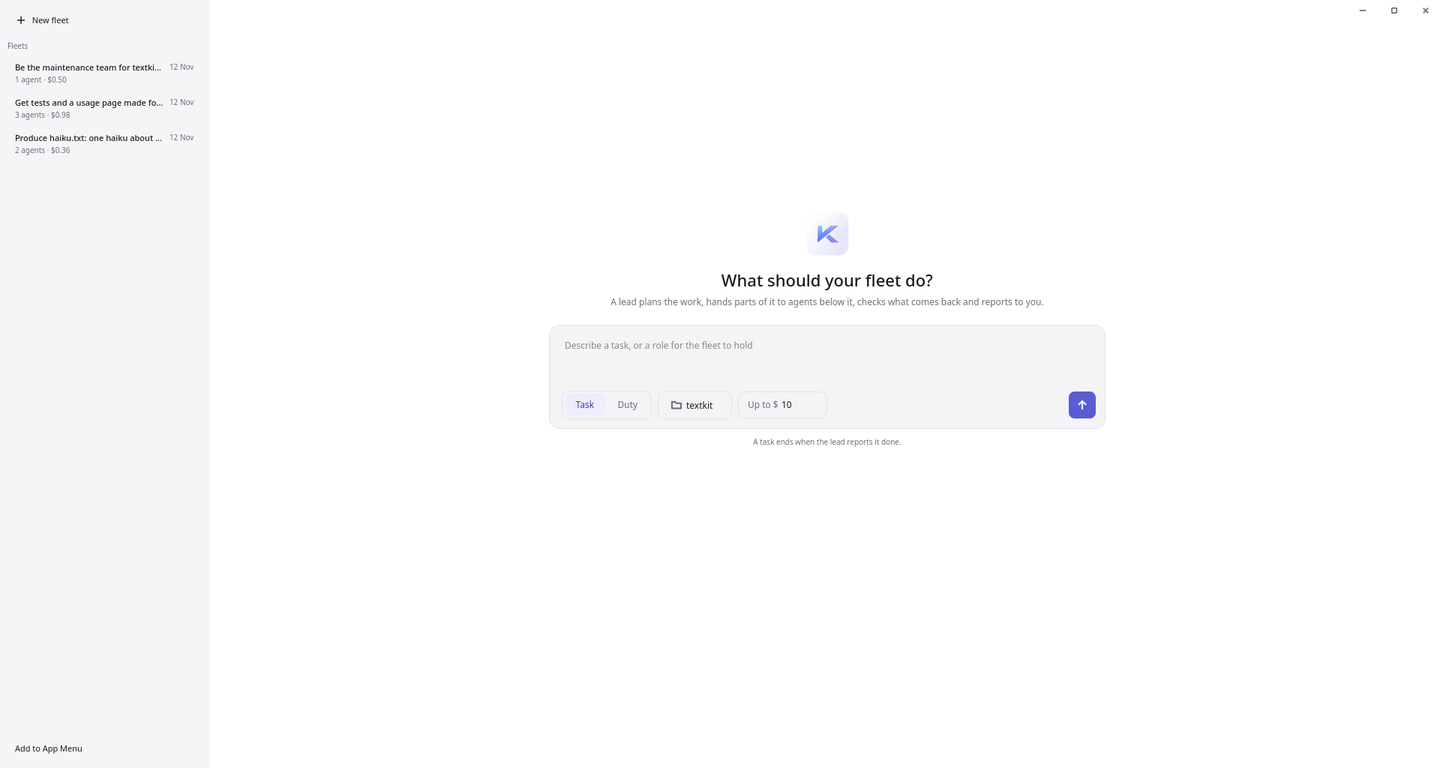
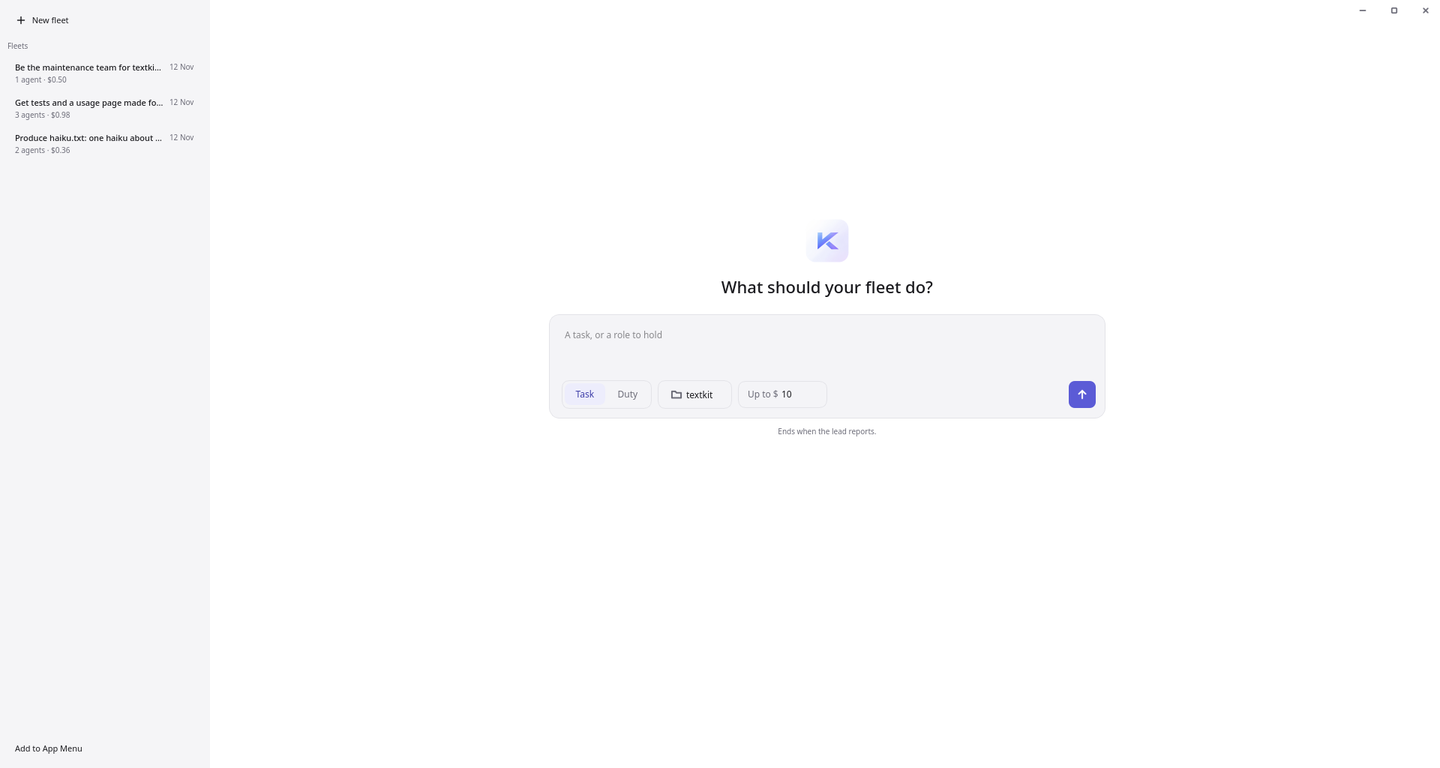
Cut the filler text from the start screen

diff --git a/src/kfm/desktop.py b/src/kfm/desktop.py
@@ -268,14 +268,9 @@ class StartForm(QWidget):
         heading = label("What should your fleet do?", wrap=False)
         heading.setAlignment(Qt.AlignmentFlag.AlignHCenter)
         heading.setStyleSheet("font-size: 22px; font-weight: 600;")
-        about = label("A lead plans the work, hands parts of it to agents below it, checks "
-                      "what comes back and reports to you.", tone="muted")
-        about.setAlignment(Qt.AlignmentFlag.AlignHCenter)
         outer.addWidget(logo)
         outer.addSpacing(14)
         outer.addWidget(heading)
-        outer.addSpacing(6)
-        outer.addWidget(about)
         outer.addSpacing(22)
 
         box = QFrame(objectName="composer")
@@ -283,7 +278,7 @@ class StartForm(QWidget):
         inside.setContentsMargins(16, 14, 12, 12)
         inside.setSpacing(12)
         self.task = TaskBox()
-        self.task.setPlaceholderText("Describe a task, or a role for the fleet to hold")
+        self.task.setPlaceholderText("A task, or a role to hold")
         self.task.submitted.connect(self.submitted)
         inside.addWidget(self.task)
         row = QHBoxLayout()
@@ -349,9 +344,8 @@ class StartForm(QWidget):
 
     def _describe(self) -> None:
         self.hint.setText(
-            "A duty never ends: the fleet finds its own work until you stop it."
-            if self.duty.isChecked() else
-            "A task ends when the lead reports it done.")
+            "Runs until you stop it." if self.duty.isChecked() else
+            "Ends when the lead reports.")
 
     def _choose(self) -> None:
         dialog = QFileDialog(self, "The folder the fleet works in", str(self.folder.parent))
@@ -753,8 +747,8 @@ class FleetWindow(QMainWindow):
             return
         work = form.folder.expanduser().resolve()
         if work == Path.home().resolve():
-            form.warn("Choose a folder made for the fleet: in your home folder its agents "
-                      "could change anything of yours.")
+            form.warn("Not your home folder: agents can change anything in the folder "
+                      "they work in.")
             return
         self._run(self.start_fleet(task, ongoing=form.duty.isChecked(), work=work,
                                    budget=form.budget.value()))

diff --git a/tests/test_desktop.py b/tests/test_desktop.py
@@ -99,9 +99,9 @@ async def test_a_fleet_is_started_and_followed_in_the_window(window, tmp_path: P
     assert form.isVisibleTo(shown) and not shown.composer.isVisibleTo(shown)
     assert not shown.title.isVisibleTo(shown)  # nothing to name yet
     assert not shown.agents_section.isVisibleTo(shown)
-    assert "ends" in form.hint.text() and not form.duty.isChecked()  # a task, by default
+    assert "Ends" in form.hint.text() and not form.duty.isChecked()  # a task, by default
     form.duty.setChecked(True)
-    assert "never ends" in form.hint.text() and not form.task_kind.isChecked()
+    assert "until you stop" in form.hint.text() and not form.task_kind.isChecked()
     form.task_kind.setChecked(True)
     start(shown, tmp_path, "Tidy up")
     await until(lambda: shown.manager is not None and shown.manager.finished.is_set())
